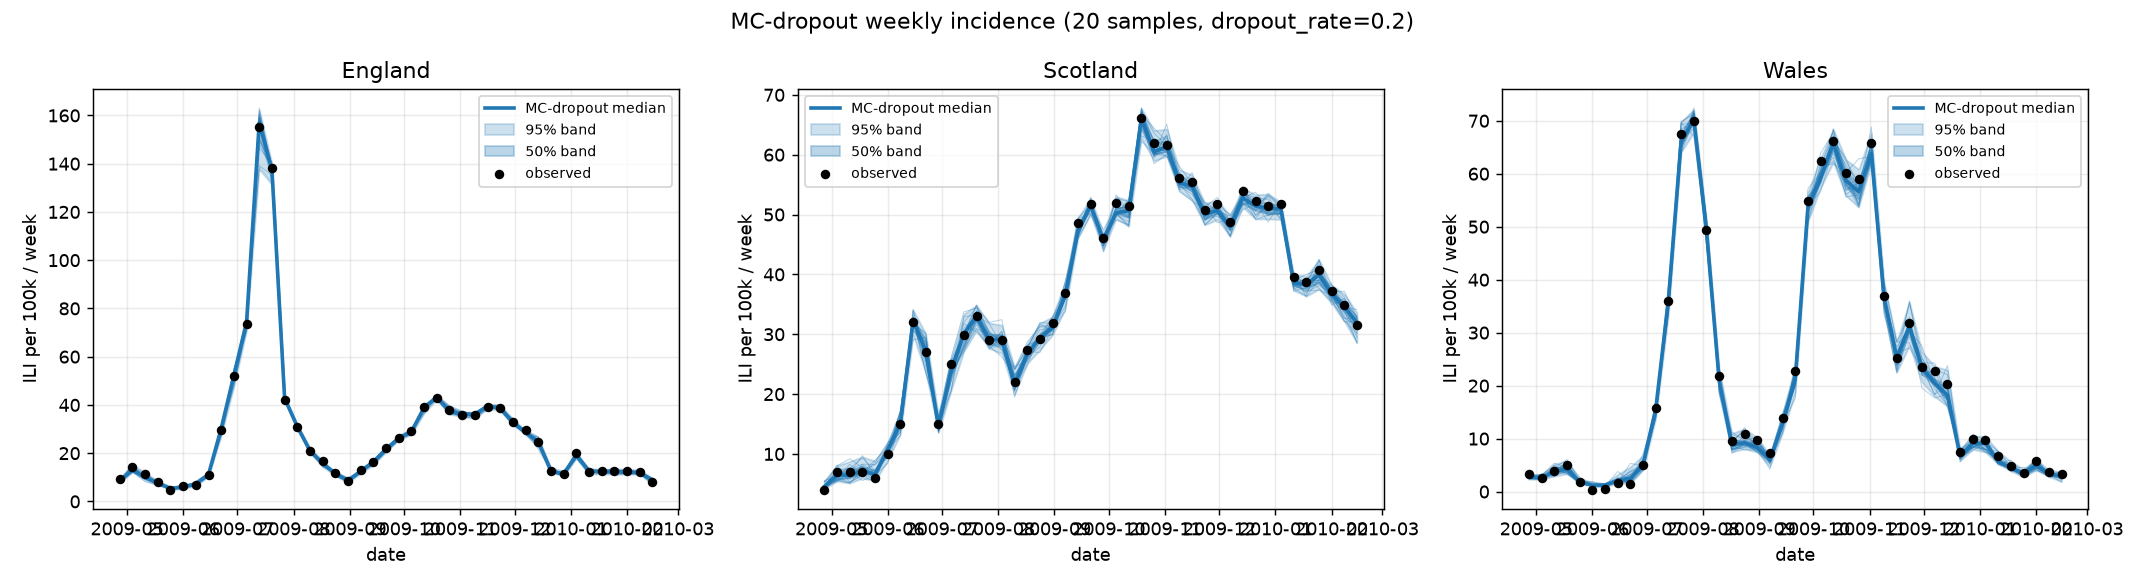
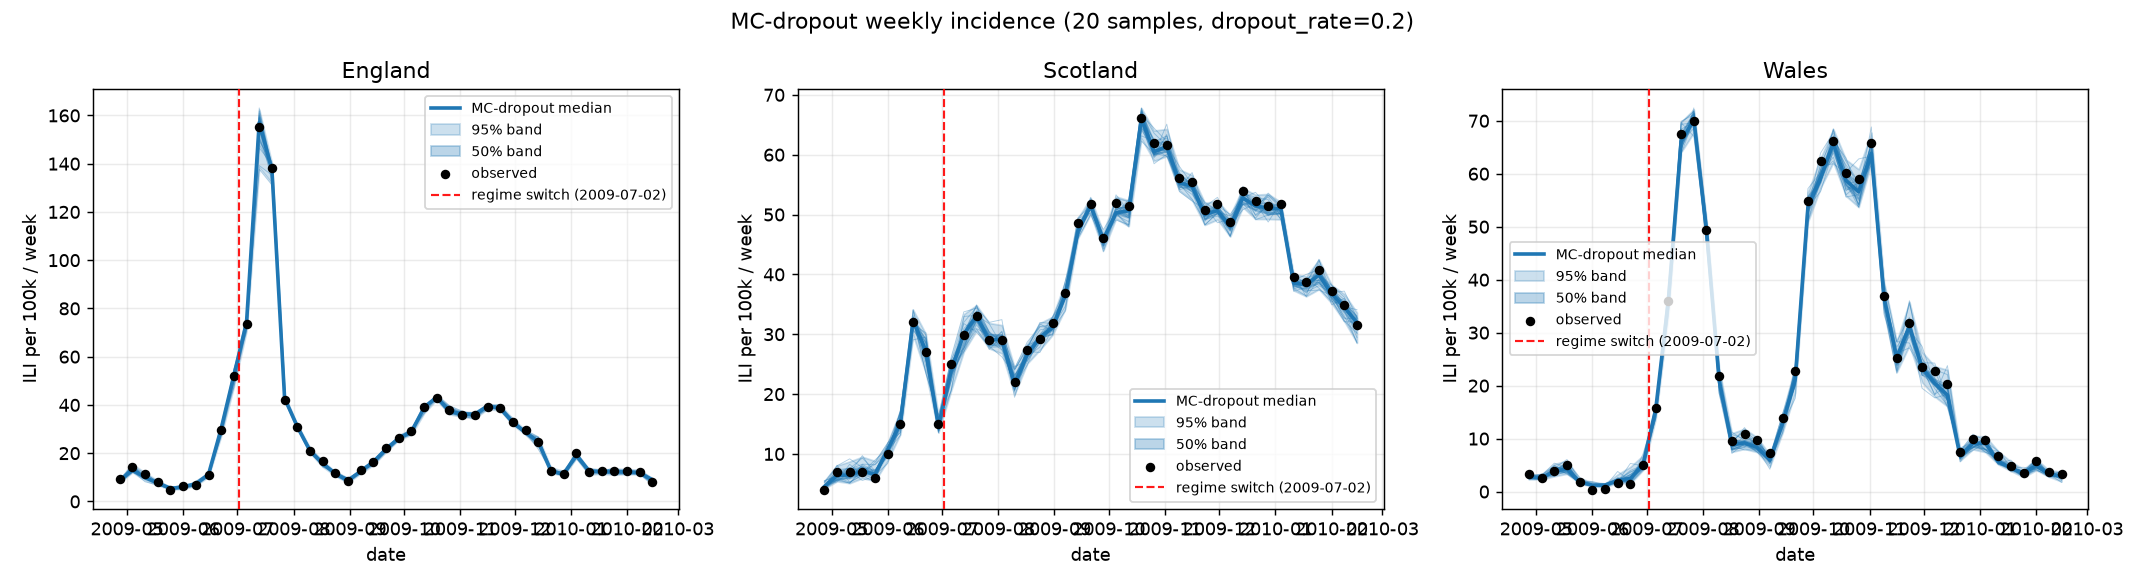
added regime switch to plots

diff --git a/pinn_seir/plot_mc_trajectories.py b/pinn_seir/plot_mc_trajectories.py
@@ -42,6 +42,8 @@ from .config import ModelConfig, TrainConfig
 from .data import load_epi_data
 from .model import PINNTrainer
 
+from .plot_utils import mark_switches
+
 _COMPARTMENT_NAMES = ["S", "E", "I (symptomatic)", "A (asymptomatic)", "R"]
 
 
@@ -83,7 +85,7 @@ def _week_to_date(epidemic_start: str, week_float: np.ndarray) -> list:
 
 def _plot_fan(
     ax, x, samples_r, obs_x=None, obs_y=None, percentile_pairs=None,
-    n_spaghetti=0, ylabel="", title="", rng=None,
+    n_spaghetti=0, ylabel="", title="", rng=None, mcfg=None, use_dates=False,
 ):
     """samples_r: (n_samples, n_x) array for one nation."""
     median = np.median(samples_r, axis=0)
@@ -109,6 +111,11 @@ def _plot_fan(
 
     if obs_x is not None:
         ax.scatter(obs_x, obs_y, s=18, color="k", label="observed", zorder=4)
+
+    ax.set_title(title)
+    ax.set_ylabel(ylabel)
+    if mcfg is not None:
+        mark_switches(ax, mcfg, use_dates=use_dates)
 
     ax.set_title(title)
     ax.set_ylabel(ylabel)
@@ -176,6 +183,7 @@ def main() -> None:
                         percentile_pairs=percentile_pairs,
                         n_spaghetti=args.n_spaghetti,
                         ylabel="count", title=_COMPARTMENT_NAMES[c], rng=rng,
+                        mcfg=mcfg, use_dates=args.dates,
                     )
                 fig.suptitle(f"MC-dropout SEIAR trajectories — {nation}")
                 fig.tight_layout()
@@ -219,6 +227,7 @@ def main() -> None:
                     n_spaghetti=args.n_spaghetti,
                     ylabel="ILI per 100k" + (" / day" if args.daily else " / week"),
                     title=data.nation_names[r], rng=rng,
+                    mcfg=mcfg, use_dates=args.dates,
                 )
                 ax.set_xlabel(xlabel)
             fig.suptitle(

diff --git a/pinn_seir/plot_utils.py b/pinn_seir/plot_utils.py
@@ -1,0 +1,41 @@
+"""Shared plotting helpers: regime-switch markers on a model-week or date axis."""
+
+from __future__ import annotations
+
+from typing import List
+
+from .schedules import _parse_date
+
+
+def switch_dates(mcfg) -> List[str]:
+    """Configured change-point date(s) as a list, tolerating None / str / sequence."""
+    raw = getattr(mcfg, "regime_switch_date", None)
+    if raw is None:
+        return []
+    if isinstance(raw, str):
+        return [raw]
+    return [d for d in raw if d is not None]
+
+
+def switch_weeks(mcfg) -> List[float]:
+    """Change points in fractional model-week coordinates from epidemic_start."""
+    start = _parse_date(mcfg.epidemic_start)
+    dpw = float(mcfg.days_per_week)
+    return [(_parse_date(d) - start).days / dpw for d in switch_dates(mcfg)]
+
+
+def mark_switches(ax, mcfg, use_dates: bool = False, label: bool = True) -> None:
+    """Draw a dashed red vertical line at each regime change point.
+
+    Call BEFORE ax.legend() or the label will not appear. Only the first line is
+    labelled, so multiple change points produce one legend entry.
+    """
+    horizon_weeks = float(mcfg.n_weeks)
+    for i, (d, w) in enumerate(zip(switch_dates(mcfg), switch_weeks(mcfg))):
+        if not (0.0 <= w <= horizon_weeks):
+            continue                      # outside the plotted horizon
+        x = _parse_date(d) if use_dates else w
+        ax.axvline(
+            x, color="red", ls="--", lw=1.2, alpha=0.9, zorder=4,
+            label=f"regime switch ({d})" if (label and i == 0) else None,
+        )

diff --git a/pinn_seir/plot_fit.py b/pinn_seir/plot_fit.py
@@ -34,6 +34,7 @@ from .data import load_epi_data
 from .model import PINNTrainer
 from .schedules import holiday_week_spans
 
+from .plot_utils import mark_switches
 
 def parse_args() -> argparse.Namespace:
     p = argparse.ArgumentParser(allow_abbrev=False, description=__doc__)
@@ -137,6 +138,7 @@ def _plot(data, t_days, pred_daily, obs, obs_weeks, mcfg, args) -> None:
         ax.plot(x_pred, pred_weekly_equiv[r], lw=1.5, color="C0",
                 label="PINN (daily)")
         ax.scatter(x_obs, obs[r], s=22, color="k", zorder=3, label="observed ILI (weekly)")
+        mark_switches(ax, mcfg, use_dates=args.dates)
         ax.set_title(data.nation_names[r])
         ax.set_xlabel(xlabel)
         ax.set_ylabel("ILI per 100k / week")

diff --git a/pinn_seir/fit_pinn.py b/pinn_seir/fit_pinn.py
@@ -34,6 +34,8 @@ from .config import ModelConfig, TrainConfig
 from .data import load_epi_data
 from .model import PINNTrainer
 
+from .plot_utils import mark_switches
+
 
 def parse_args() -> argparse.Namespace:
     p = argparse.ArgumentParser(allow_abbrev=False, description=__doc__)
@@ -189,6 +191,7 @@ def _export_plot(trainer: PINNTrainer, data, path: Path) -> None:
             data.obs_week_index, obs[r, : len(data.obs_week_index)],
             s=18, color="k", label="observed", zorder=3,
         )
+        mark_switches(ax, trainer.mcfg, use_dates=False)
         ax.set_title(data.nation_names[r])
         ax.set_xlabel("week")
         ax.set_ylabel("ILI per 100k / week")
